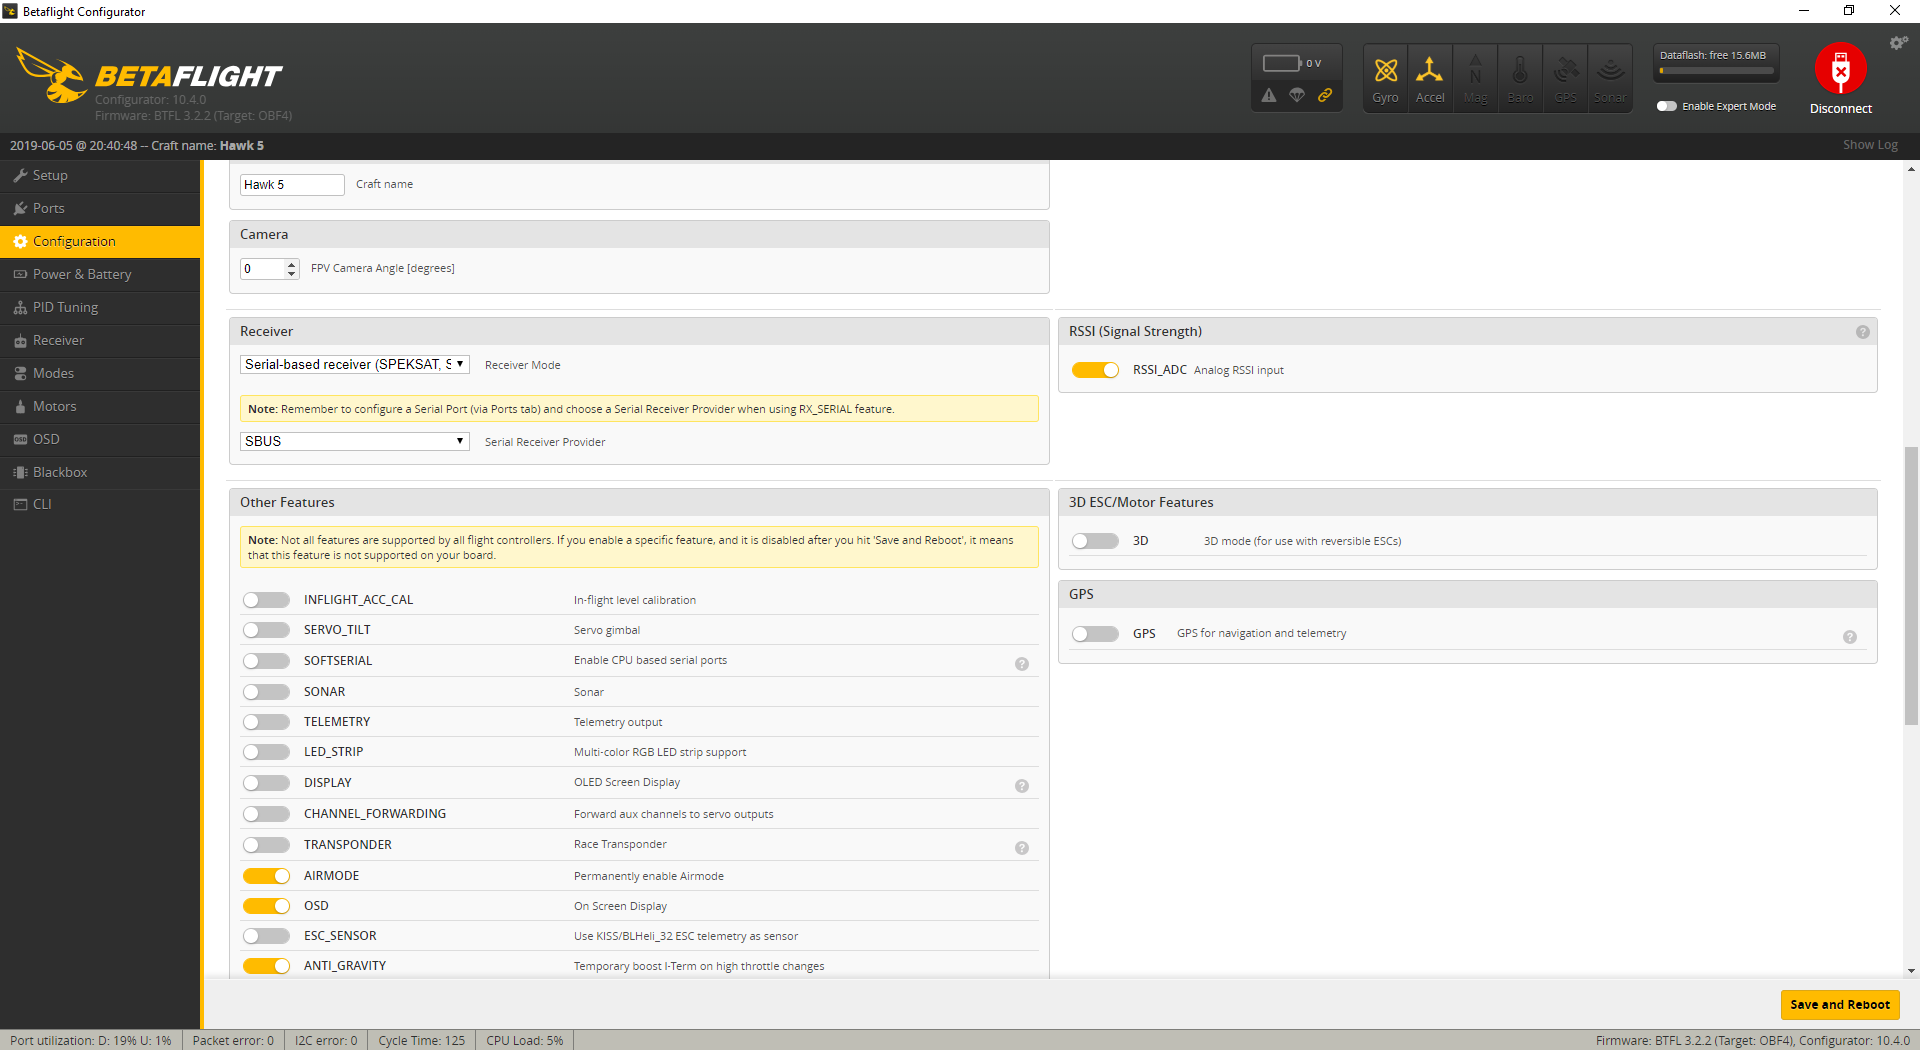
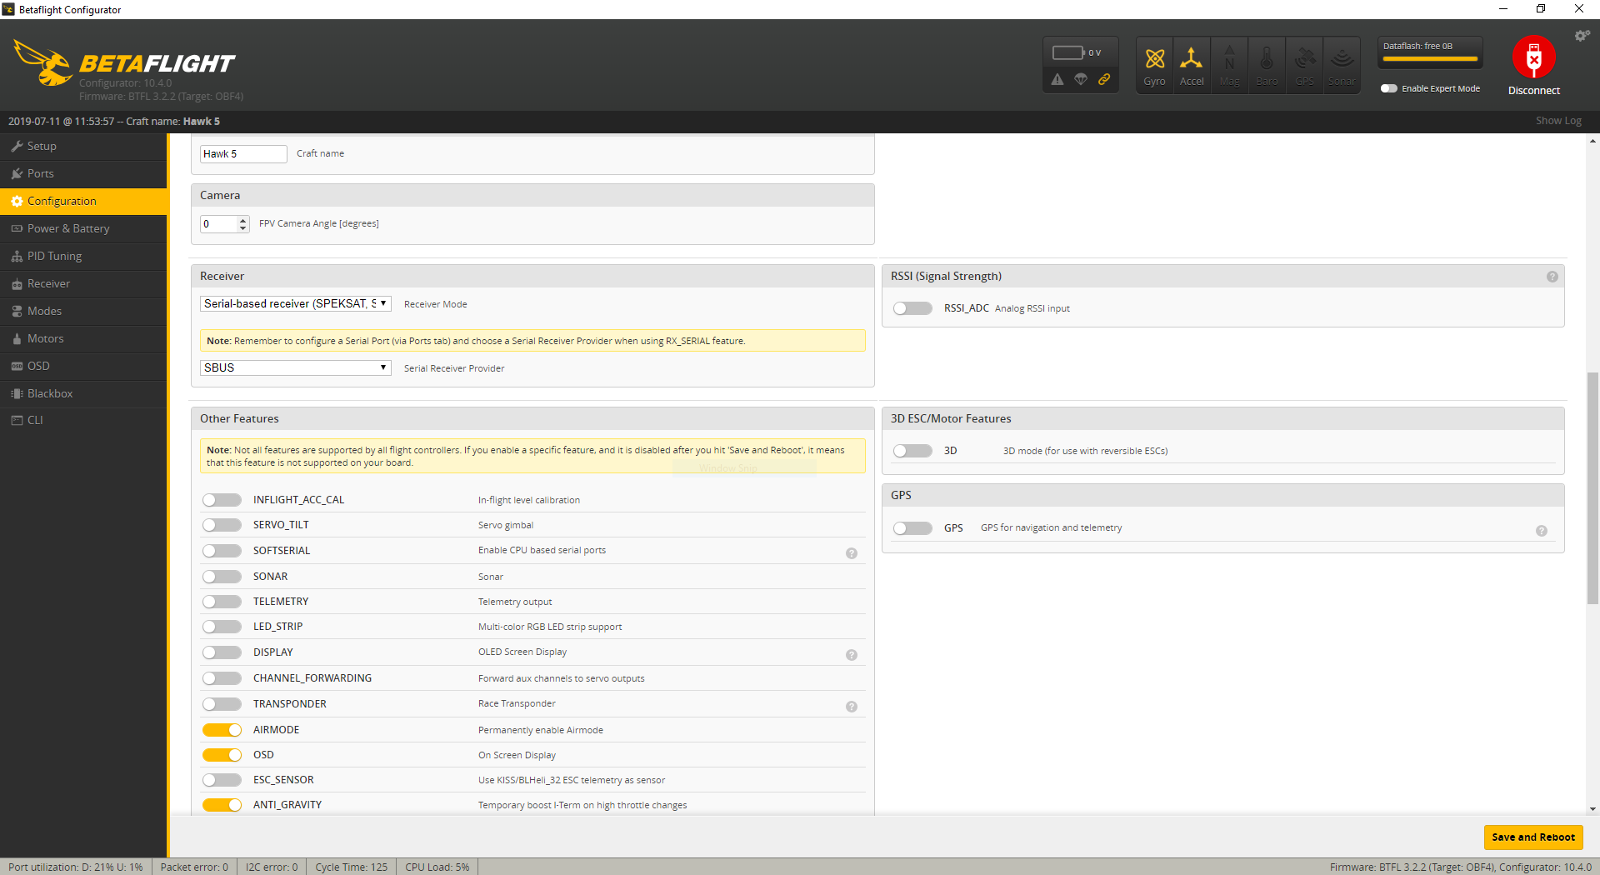
Update setting up RSSI section

diff --git a/content/posts/fpv/2019-06-30-emax-hawk-5-unboxing-review-and-setup/index.md b/content/posts/fpv/2019-06-30-emax-hawk-5-unboxing-review-and-setup/index.md
@@ -190,7 +190,7 @@ Here's the rest of the stock configuration:
 
 ![Betaflight configuration page 1](emax-hawk-5-unboxing-review-and-setup-42.png)
 
-Let's verify that SBUS is set and also with the XM+ receiver we get RSSI output on channel 12, which is neat and can be then shown on the OSD. You can enable it here in the configuration tab.
+Let's verify that SBUS is set and also with the XM+ receiver we get RSSI output on channel 12, which is neat and can be then shown on the OSD. In order to see the correct values, make sure RSSI_ADC analog is **switched off** in this page.
 
 ![Betaflight configuration page 2](emax-hawk-5-unboxing-review-and-setup-27.png)
 

diff --git a/content/posts/fpv/2019-07-13-runcam-5/index.md b/content/posts/fpv/2019-07-13-runcam-5/index.md
@@ -51,4 +51,4 @@ in order of settings:
 0010 - 1080p120 fps (full pack)
 
 [0]: Linkslist
-[1]: asd
+[1]: https://bit.ly/runcam--5
